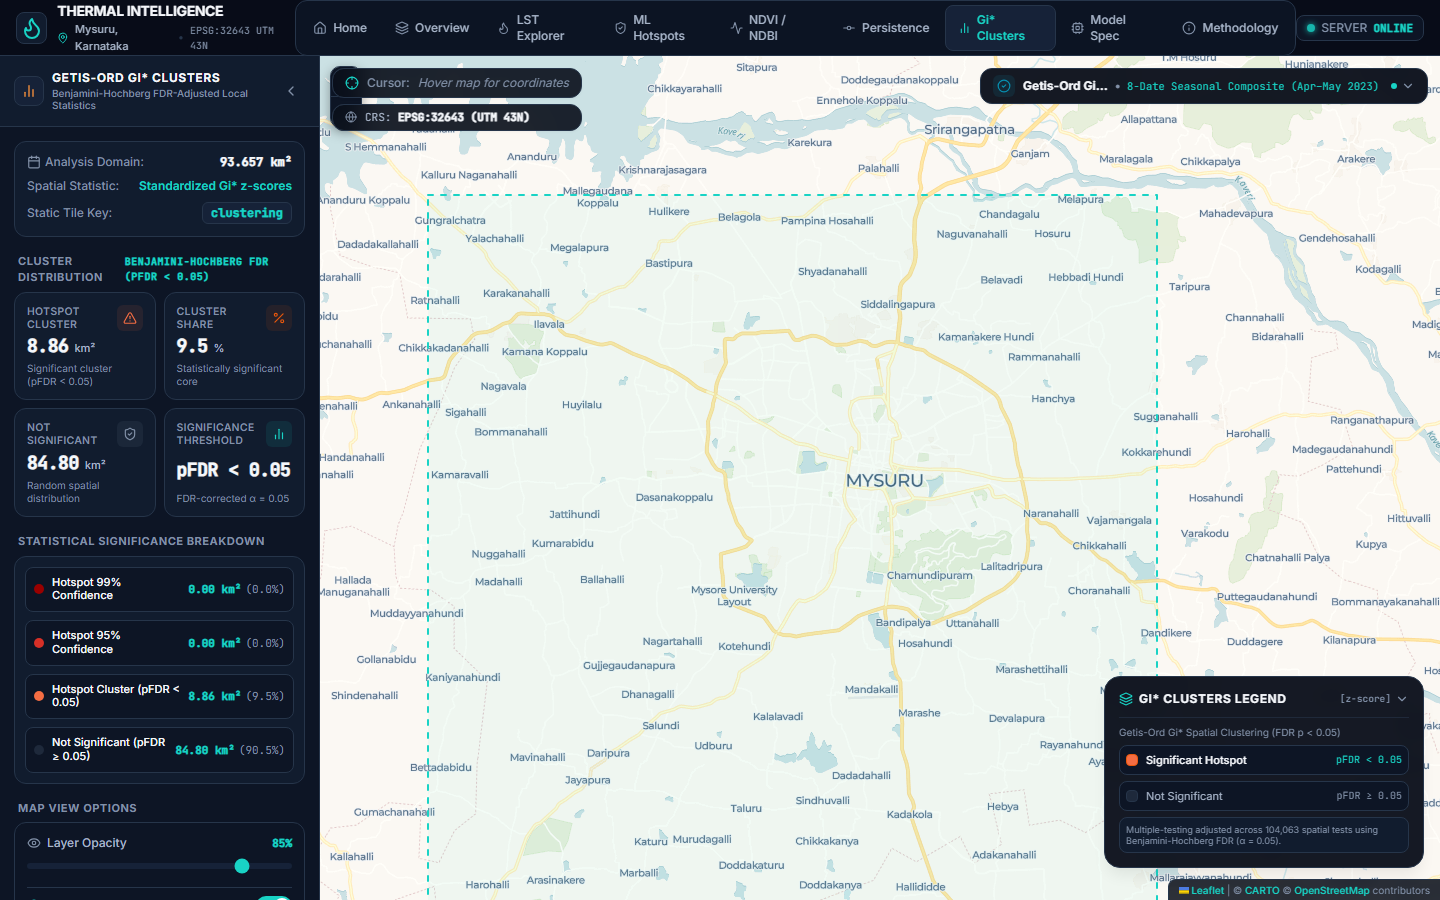
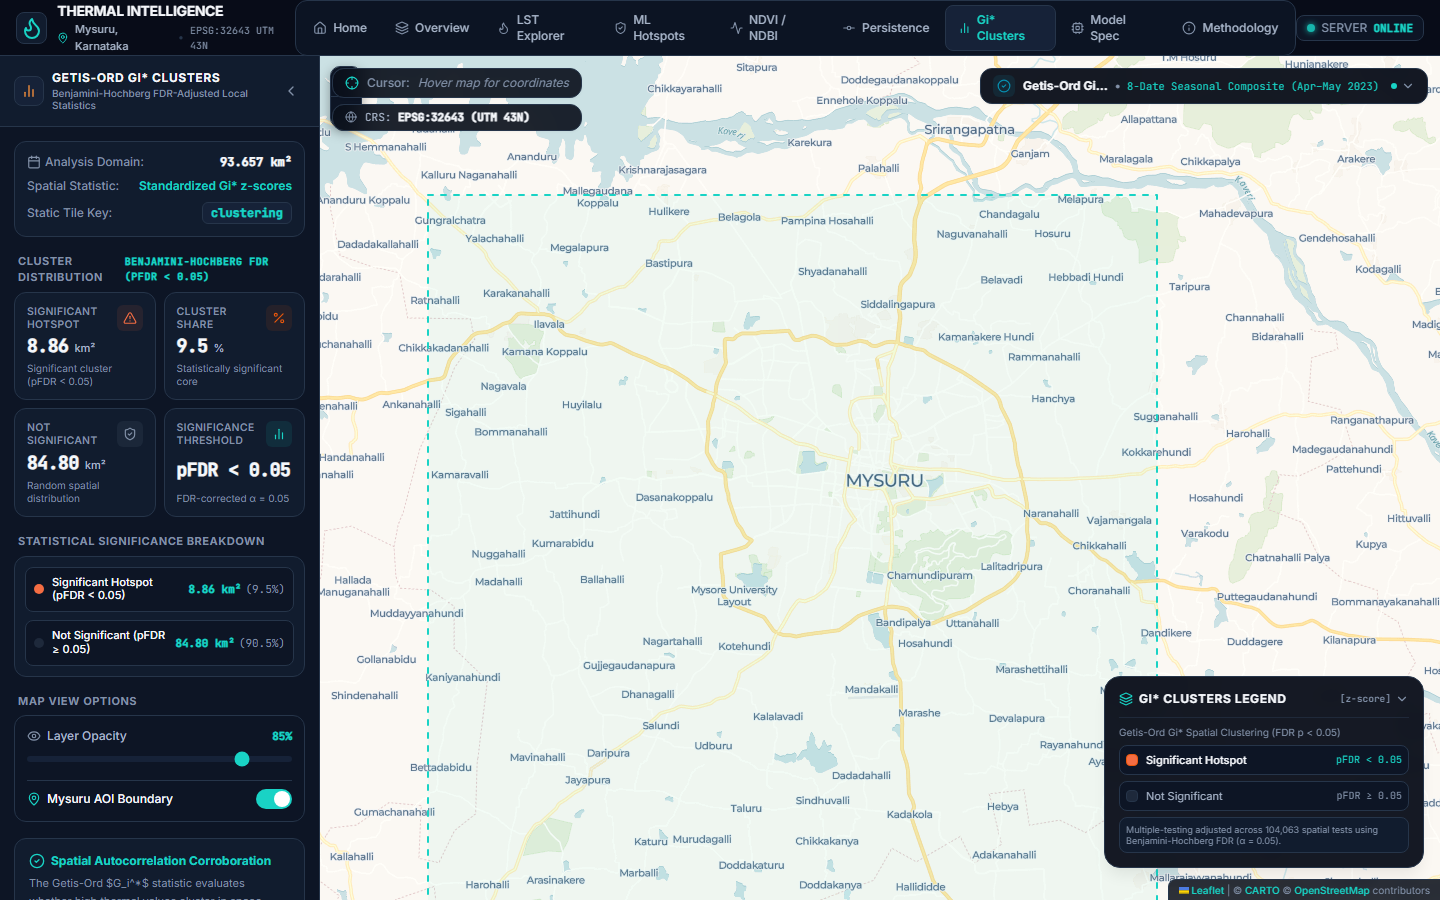
fix: show only verified 2-class Gi* FDR breakdown entries

Changed region(s): [[0.0, 0.6222, 0.2188, 1.0], [0.0, 0.3422, 0.0625, 0.3733]]

diff --git a/frontend/src/pages/ClustersPage.tsx b/frontend/src/pages/ClustersPage.tsx
@@ -39,12 +39,13 @@ export const ClustersPage: React.FC = () => {
     }
   }, [activeLayer, setActiveLayer]);
 
-  const hot90 = giStarStats?.clusters?.find((c) => c.confidence_level === '90%');
+  const hotSig = giStarStats?.clusters?.find((c) => c.confidence_level === '90%' || c.cluster_type.includes('Significant Hotspot') || (c.cluster_type.includes('Hotspot') && c.area_km2 > 0));
   const notSig = giStarStats?.clusters?.find((c) => c.cluster_type.includes('Not Significant'));
 
-  const hot90Area = hot90?.area_km2 ?? 8.856;
-  const hot90Pct = hot90?.percentage ?? 9.46;
+  const sigHotspotArea = hotSig?.area_km2 ?? 8.856;
+  const sigHotspotPct = hotSig?.percentage ?? 9.46;
   const notSigArea = notSig?.area_km2 ?? 84.801;
+  const notSigPct = notSig?.percentage ?? 90.54;
   const totalDomain = giStarStats?.total_built_area_km2 ?? 93.657;
 
   return (
@@ -138,8 +139,8 @@ export const ClustersPage: React.FC = () => {
 
               <div className="grid grid-cols-2 gap-2">
                 <StatCard
-                  title="Hotspot Cluster"
-                  value={hot90Area.toFixed(2)}
+                  title="Significant Hotspot"
+                  value={sigHotspotArea.toFixed(2)}
                   unit="km²"
                   subtitle="Significant cluster (pFDR < 0.05)"
                   icon={AlertTriangle}
@@ -150,7 +151,7 @@ export const ClustersPage: React.FC = () => {
 
                 <StatCard
                   title="Cluster Share"
-                  value={hot90Pct.toFixed(1)}
+                  value={sigHotspotPct.toFixed(1)}
                   unit="%"
                   subtitle="Statistically significant core"
                   icon={Percent}
@@ -187,30 +188,31 @@ export const ClustersPage: React.FC = () => {
                 Statistical Significance Breakdown
               </div>
               <div className="bg-[#111C2E] border border-[#26354A] rounded-xl p-2.5 space-y-2">
-                {(giStarStats?.clusters || [
-                  { cluster_type: "Hotspot Cluster (pFDR < 0.05)", confidence_level: "pFDR < 0.05", area_km2: 8.856, percentage: 9.46, color_hex: "#f46d43" },
-                  { cluster_type: "Not Significant (pFDR ≥ 0.05)", confidence_level: "pFDR ≥ 0.05", area_km2: 84.801, percentage: 90.54, color_hex: "#1e293b" }
-                ])
-                  .filter((c) => c.area_km2 > 0 || c.cluster_type.includes('Not Significant') || c.cluster_type.includes('Hotspot'))
-                  .map((c, idx) => {
-                    const label = c.cluster_type.includes('90%') || c.cluster_type === 'Hotspot Cluster'
-                      ? 'Hotspot Cluster (pFDR < 0.05)'
-                      : c.cluster_type.includes('Not Significant')
-                      ? 'Not Significant (pFDR ≥ 0.05)'
-                      : c.cluster_type;
-                    return (
-                      <div key={idx} className="flex items-center justify-between text-xs p-2 bg-[#0D1525] rounded-lg border border-[#26354A] shadow-2xs gap-2">
-                        <div className="flex items-center space-x-2 min-w-0 flex-1">
-                          <span className="w-2.5 h-2.5 rounded-full shrink-0" style={{ backgroundColor: c.color_hex }} />
-                          <span className="text-[#F5F7FB] font-medium text-[11px] leading-tight break-words">{label}</span>
-                        </div>
-                        <div className="text-right shrink-0 font-mono text-[11px]">
-                          <span className="font-bold text-[#19D3C5]">{c.area_km2.toFixed(2)} km²</span>
-                          <span className="text-[#8291A8] ml-1">({c.percentage.toFixed(1)}%)</span>
-                        </div>
-                      </div>
-                    );
-                  })}
+                {[
+                  {
+                    cluster_type: "Significant Hotspot (pFDR < 0.05)",
+                    area_km2: sigHotspotArea,
+                    percentage: sigHotspotPct,
+                    color_hex: "#f46d43"
+                  },
+                  {
+                    cluster_type: "Not Significant (pFDR ≥ 0.05)",
+                    area_km2: notSigArea,
+                    percentage: notSigPct,
+                    color_hex: "#1e293b"
+                  }
+                ].map((c, idx) => (
+                  <div key={idx} className="flex items-center justify-between text-xs p-2 bg-[#0D1525] rounded-lg border border-[#26354A] shadow-2xs gap-2">
+                    <div className="flex items-center space-x-2 min-w-0 flex-1">
+                      <span className="w-2.5 h-2.5 rounded-full shrink-0" style={{ backgroundColor: c.color_hex }} />
+                      <span className="text-[#F5F7FB] font-medium text-[11px] leading-tight break-words">{c.cluster_type}</span>
+                    </div>
+                    <div className="text-right shrink-0 font-mono text-[11px]">
+                      <span className="font-bold text-[#19D3C5]">{c.area_km2.toFixed(2)} km²</span>
+                      <span className="text-[#8291A8] ml-1">({c.percentage.toFixed(1)}%)</span>
+                    </div>
+                  </div>
+                ))}
               </div>
             </div>
 
